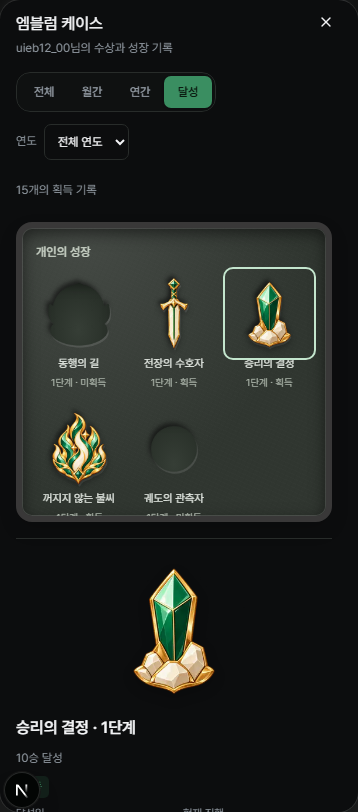
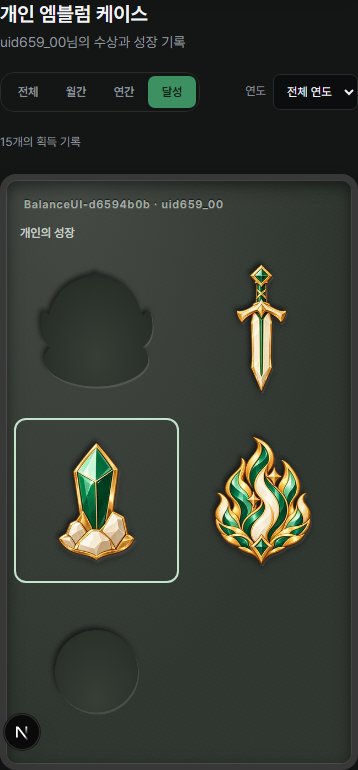
docs(emblems): record permanent awards and case page verification

diff --git a/docs/design/personal-emblems/production-v1/README.md b/docs/design/personal-emblems/production-v1/README.md
@@ -1,6 +1,6 @@
 # 개인 엠블럼 · 개별 투명 이미지 V1
 
-제작일: 2026-10-23 · 상태: 10계열·50장 제작 및 색상 미리보기 완료. 앱의 집계·지급·컬렉션에는 미연결.
+제작일: 2026-10-23 · 상태: 10계열·50장, 공통 케이스·대표 선택·영구 수상·최초 달성일 연결.
 
 ## 확정 범위
 
@@ -8,8 +8,8 @@
 
 | 구분 | 계열 | 개별 이미지 |
 |---|---|---|
-| 수상형 | 승리의 별·약속의 태양·전장의 기사·불사조·선견의 나침반 | 5계열 × 월간/연간 × 금/은/동 = 30장 |
-| 달성형 | 동행의 길·전장의 수호자·승리의 결정·꺼지지 않는 불씨·궤도의 관측자 | 5계열 × 4단계 = 20장 |
+| 수상형 | 승률·참여·출전·연승·예측 적중 | 5계열 × 월간/연간 × 금/은/동 = 30장 |
+| 달성형 | 누적 참여·출전·승리·최장 연승·예측 적중 | 5계열 × 4단계 = 20장 |
 
 전부 **1254×1254 RGBA PNG**다. 내장 image_gen에서 각각 따로 생성했고 픽셀 후처리 없이 [공용 이미지 폴더](../../../../public/personal-emblems/v1)에 복사했다. 금·은·동은 동일 계열 금 원본을 직접 참조해 금속만 바꾸었다. 연간은 짧은 리본에 별과 넓은 월계 장식을 더했다. 달성형은 돌길·방패·결정·불꽃·관측 고리가 단계별로 성장한다.
 
@@ -69,14 +69,18 @@ PNG에는 날짜·번호·이름을 새기지 않는다. 기본 녹색 원본 50
 
 `node scripts/verify-personal-emblems.mjs`로 50장 중복 없음, 정사각 RGBA, 모서리 알파 최대 1/255, 실제 그림 존재, 생성 원본과 복사본 SHA-256 50/50 일치, 월12색·연6색/과거 연도/잘못된 날짜와 금속을 제외하는 색상 선택을 확인했다. 미리보기 서버 허용 목록 자체 검사와 변경 JavaScript ESLint를 통과했다. 내장 브라우저에서 2월·2027년 색상 전환, 월간/연간 장식, 금은동, 성장 단계와 양 배경 표시를 확인했다.
 
-위 검증은 이미지 제작 단계다. 아래 공통 케이스를 추가로 연결했으며 과거 수상의 영구 기록·정정/회수 정책은 [앞선 정책 제안](../proposal-v1/README.md)에 남아 있다.
+위 검증은 이미지 제작 단계다. 아래 공통 케이스와 영구 기록을 추가로 연결했다. [앞선 정책 제안](../proposal-v1/README.md)은 제작 당시의 제안 이력이다.
 
 ## 앱의 공통 케이스 · 2026-10-23
 
-프로필에서는 활성 게임·클랜별로, 개인 기록에서는 선택 멤버의 케이스를 연다. 대표3개는 클랜별로 저장해 두 화면에 공유한다. 전체/월간/연간/달성·연도 필터와 날짜·에나멜 색상을 적용했다. 달성형은 최고 획득 한 단계만 진열하고 상세에서 관련4단계·조건·진척을 확인한다. 미획득은 빈 홈과 미리보기로 구분한다.
+프로필에서는 활성 게임·클랜별로, 개인 기록에서는 선택 멤버의 전용 케이스 페이지를 연다. 대표3개는 클랜별로 저장해 두 화면에 공유한다. 클랜 배지 케이스와 같은 상단 분류·명판·펠트 진열·데스크톱4열/모바일2열을 사용하며 핀을 선택하면 개별 상세 창이 열린다. 전체/월간/연간/달성·연도 필터와 날짜·에나멜 색상을 적용했다. 달성형은 최고 획득 한 단계만 진열하고 상세에서 관련4단계·조건·진척을 확인한다. 미획득은 빈 홈과 미리보기로 구분한다.
+
+고유 엠블럼 이름을 제거하고 `10승 달성`, `월간 승률 1위`처럼 설명만 표시한다. 수상 기간과 한국 시간 기준 최초 달성일을 함께 확인한다.
 
 ![개인 엠블럼 케이스 실제 QA 화면](case-desktop.png)
 
-[모바일 실제 화면](case-mobile.png) · [통계 공개·수상 규칙](../../../01-plan/pages/10-Clan-Stats.md) · [검증 범위](../../../TODO_Phase2.md#2026-10-23-개인-엠블럼-공통-케이스)
+[케이스 모바일](case-mobile.png) · [개별 상세 PC](case-detail-desktop.png) · [개별 상세 모바일](case-detail-mobile.png) · [통계 공개·수상 규칙](../../../01-plan/pages/10-Clan-Stats.md) · [검증 범위](../../../TODO_Phase2.md#2026-10-23-개인-엠블럼-공통-케이스)
 
-현재 유효 기록을 기준으로 달성 여부와 마감 수상을 계산한다. 달성일 기록은 없으므로 임의 날짜를 표시하지 않는다. 운영 DB·배포는 보류했으며 기존 QA 데이터는 보존했다.
+월/연이 끝나고 해당 기간의 진행 중 정규 내전이 종료되면 수상을 한 번 확정해 보관한다. 기존 기록도 같은 기준으로 최초 수상 보관을 채우며 이후 정정·삭제·자격 설정 변경으로 바꾸지 않는다. 최초 달성일은 유효한 경기·참여·예측 기록에서 기준을 처음 넘은 시각으로 복원하고 새 기록이 반영될 때 자동 저장한다. 예측은 정산·종료 시각, 해당 시각이 없는 과거 기록은 라운드 시작 시각을 사용한다. 달성 후 기록이 정정·삭제돼도 달성과 달성일은 유지한다.
+
+동일 계정의 탈퇴·재가입은 이력을 보존하며 계정·클랜 삭제는 연결된 이력을 정리한다. 공개 설정은 기록 보관과 별개로 응답을 제한한다. 운영 DB·배포는 보류했으며 기존 QA 명단·경기·코인은 보존했다.

diff --git a/docs/README.md b/docs/README.md
@@ -33,7 +33,7 @@
 | 클랜 운영·공지 | [관리 탐색](../src/components/main-clan/clan-manage-tabs.tsx) · [영역별 데이터](../src/components/main-clan/clan-manage-content.tsx) · [회차 집계](../src/lib/clan/load-clan-history.ts) · [배지](../src/components/main-clan/clan-badges.tsx) · [공지 액션](../src/app/actions/clan-notices.ts) | [관리](../e2e/clan-management.spec.ts) · [운영 현황·공지 3개](../e2e/clan-management-overview.spec.ts) · [대시보드](../e2e/clan-dashboard.spec.ts) · [공지 DB](../scripts/clan-notices-db.test.mjs) |
 | 클랜 통계·사이트 이용 | [통계 로더](../src/lib/clan/stats/load-clan-stats.ts) · [집계 규칙](../src/lib/clan/stats/clan-stats-analytics.ts) · [통계 화면](../src/components/main-clan/clan-stats-experience.tsx) · [공통 연월 팝업](../src/components/ui/period-select.tsx) · [기간 집계](../src/lib/clan/stats/intra-overview.ts) · [명예의 전당 반응](../src/app/actions/hof-comments.ts) · [관리 방문 화면](../src/components/main-clan/clan-site-usage-panel.tsx) | [기간·권한 UI](../e2e/clan-stats-periods.spec.ts) · [플레이어 태그·기본 정보·권한](../e2e/player-profile-display.spec.ts) · [집계](../e2e/clan-stats-analytics.spec.ts) · [기록/HoF](../e2e/clan-match-records.spec.ts) · [반응/댓글 권한](../e2e/hof-comments.spec.ts) · [권한 경계](../e2e/security-fix-boundaries.spec.ts) |
 | 통계 조회 성능 | [조회 모델 설계](02-design/clan-stats-read-model.md) · [요약·기록 RPC 로더](../src/lib/clan/stats/stats-read-model.ts) · [기간 지연 조회](../src/components/main-clan/use-stats-period.tsx) | [정합성·권한](../e2e/clan-stats-read-model.spec.ts) · [1만 경기 측정](../e2e/clan-stats-scale.spec.ts) |
-| 개인 엠블럼·대표 케이스 | [공통 케이스](../src/components/personal-emblems/personal-emblem-case.tsx) · [조회·대표 저장](../src/app/actions/personal-emblems.ts) · [계열·단계](../src/lib/personal-emblems/catalog.ts) · [프로필 연결](../src/components/profile/profile-emblem-collections.tsx) | [공개·저장·공유·모바일 UI](../e2e/personal-emblem-case.spec.ts) · [수상·단계·대표 규칙](../e2e/personal-emblems-catalog.spec.ts) · [RLS·소속 DB](../scripts/personal-emblems-db.test.mjs) |
+| 개인 엠블럼·대표 케이스 | [전용 페이지](../src/app/games/[gameSlug]/clan/[clanId]/emblems/page.tsx) · [공통 케이스](../src/components/personal-emblems/personal-emblem-case.tsx) · [GET 조회](../src/app/api/clans/[clanId]/personal-emblems/route.ts) · [대표 저장](../src/app/actions/personal-emblems.ts) · [계열·단계](../src/lib/personal-emblems/catalog.ts) · [프로필 연결](../src/components/profile/profile-emblem-collections.tsx) | [공개·저장·공유·모바일 UI](../e2e/personal-emblem-case.spec.ts) · [수상·단계·대표 규칙](../e2e/personal-emblems-catalog.spec.ts) · [RLS·소속 DB](../scripts/personal-emblems-db.test.mjs) · [영구 보관·최초 날짜 DB](../scripts/personal-emblem-history-db.test.mjs) · [정정·공개·재가입 보존](../e2e/personal-emblem-history.spec.ts) · [월/연 수상·터치](../e2e/personal-emblem-awards.spec.ts) |
 | 경기 기록 추가·정정·제거 | [기록 액션](../src/app/actions/clan-match-records.ts) · [편집 창](../src/components/main-clan/match-record-editor.tsx) · [날짜별 기록](../src/components/main-clan/clan-stats-archive.tsx) · [당일 전적](../src/components/main-clan/archive-day-table.tsx) | [CRUD·권한·원본 보존](../e2e/clan-match-record-editing.spec.ts) · [영역 유지·고정 높이](../e2e/clan-stats-periods.spec.ts) |
 | 일정·캘린더·시간대 | [캘린더 UI](../src/components/main-clan/clan-events-view.tsx) · [일정 액션](../src/app/actions/clan-events.ts) · [시간 파싱](../src/lib/clan/parse-event-start.ts) | [반응형 패널·드로워](../e2e/event-calendar-layout.spec.ts) · [event-timezone](../e2e/event-timezone.spec.ts) · [review-rules](../e2e/review-rules.spec.ts) |
 | 투표·생성 폼 | [목록·참여·결과](../src/components/main-clan/clan-events-polls-tab.tsx) · [도넛 결과](../src/components/main-clan/clan-poll-results.tsx) · [생성 UI](../src/components/main-clan/clan-poll-create-dialog.tsx) · [투표 액션](../src/app/actions/clan-polls.ts) | [생성·검증·모바일](../e2e/clan-poll-create.spec.ts) · [선택·변경·결과·직접 링크](../e2e/clan-poll-voting.spec.ts) · [시작 예약·익명 응답](../e2e/clan-poll-schedule.spec.ts) |

diff --git a/docs/TODO_Phase2.md b/docs/TODO_Phase2.md
@@ -14,7 +14,12 @@
 - 프로필의 활성 게임·클랜별 영역과 개인 기록 배너가 같은 이미지 케이스를 연다. 수상형30장·달성형20장과 월12색/연6색·날짜를 적용했다. 전체/월간/연간/달성·연도 필터, 계열별 최고 달성 한 슬롯, 조건·진척·금은동·수상 기간과 관련4단계 상세를 제공한다.
 - 본인의 획득 엠블럼 최대3개를 클랜별로 저장하고 두 화면에서 공유한다. 명시적 빈 선택을 유지하며 달성 단계가 오르면 대표도 최고 단계로 바뀐다. 새 테이블은 본인·현재 소속의 읽기만 허용하고 서버가 소속·공개 범위·획득 여부를 검증한 뒤 저장한다. 멤버에게 비공개인 전적/예측 계열은 달성형 응답에서도 제외한다. 조회 거부 시 이전 기록·초기 표시와 진행 중 저장 응답을 폐기한다.
 - QA 마이그레이션 `20261023063328_clan_personal_emblem_picks.sql`과 타입을 적용했다. 격리 DB 하위 검증5건(상위 포함6건), 집중 Playwright7건 및 권한 철회 후 재조회 추가 시나리오, 변경 ESLint·타입·QA 설정 프로덕션 빌드가 통과했다. 대표 저장/화면 공유·미획득 차단·최고 단계·공개 권한·탈퇴·320/390px·닫기/포커스 복귀를 확인했다. [실제 케이스 화면](design/personal-emblems/production-v1/case-desktop.png)을 보관했다.
-- 수상은 종전처럼 마감 기간의 현재 원본으로 재계산하며 영구 수상 스냅샷은 후속이다. 누적 달성도 현재 유효 기록을 기준으로 판정하고 미보유 달성일을 만들어 내지 않는다. 기존 QA 명단·내전·코인은 보존했으며 운영 DB·배포는 보류한다.
+- 후속 보관: 월/연 마감과 해당 기간 진행 중 정규 내전 종료 뒤 전체 부문 상위3을 한 번 확정한다. 빈 기간도 마커로 확정하고 정정·삭제·자격 설정 변경 후 수상을 보존한다. 조회 및 기존 분 단위 워커/cron이 미확정 기간을 보완한다. 통계 요약이나 자격 기준이 계산 중 바뀌면 확정을 보류하고 재시도하며 진행 중 기간은 대기열에서도 제외한다.
+- 최초 달성일은 정규화된 유효 경기·정규 회차 최초 출전·예측 적중의 기준 통과 시각으로 복원하고 통계 갱신과 함께 자동 저장한다. 예측은 정산→종료→과거 라운드 시작 시각 순이다. 달성 후 원본 정정·삭제나 동일 계정 탈퇴·재가입에도 획득과 날짜·대표를 유지한다. 계정·클랜 삭제 시 연결 이력은 정리한다. 보관 테이블의 직접 읽기/쓰기를 차단하고 기존 공개 정책을 통과한 서버 응답만 허용한다.
+- 표시: 고유 이름을 제거하고 목록·상세·접근성 설명·미리보기에 `10승 달성`, `월간 승률 1위` 같은 조건/수상 내용만 사용한다. 달성일은 한국 시간 날짜다. 자동 대표에서 연간과 12월 수상은 같은 마감 시점으로 정렬한다. 기존 QA 명단·내전·코인은 보존했으며 운영 DB·배포는 보류한다.
+- 케이스 페이지: 프로필·개인 기록의 대표3칸/보기 링크가 `/games/{gameSlug}/clan/{clanId}/emblems?player={userId}`로 연결된다. 클랜 배지와 같은 분류·명판·펠트 진열·데스크톱4열/모바일2열·핀별 상세 창을 사용하며 대표 지정과 관련4단계도 상세 안에 모은다.
+- 재조회는 캐시하지 않는 GET을 사용하고 이동 시 요청을 취소한다. 사용자·대상이 바뀐 응답을 폐기하며, 공개 권한 철회 시 초기 표시·상세·대표를 즉시 비운다.
+- 후속 검증: QA 이력 마이그레이션6개·생성 타입과 기존 데이터의 마감 수상 보관을 반영했다. 격리 이력 DB7건(상위 포함), 관련 Playwright11건(계열 규칙5·기간/요약/수상/보관/케이스/프로필6), 변경 ESLint·타입·최종 QA 설정 프로덕션 빌드가 통과했다. 기간 전체의 원자적 확정·동시 요청·빈 기간·진행 중 내전·오래된 통계/자격 설정의 확정 보류, 최초 날짜5계열·정정/삭제/재가입 보존, GET400/401/403·권한 철회 후 재시도·320/390px·포커스 복귀를 확인했다. 보안 advisor 신규 WARN/ERROR는 없다. [상세 PC](design/personal-emblems/production-v1/case-detail-desktop.png)·[상세 모바일](design/personal-emblems/production-v1/case-detail-mobile.png) 화면을 추가했다.
 
 ## 2026-10-23 프로필 하우징 1차
 

diff --git a/docs/01-plan/pages/14-Profile-Customization.md b/docs/01-plan/pages/14-Profile-Customization.md
@@ -5,10 +5,12 @@
 
 ## 2026-10-23 — 개인 엠블럼 케이스
 
-- 본인 프로필에서 활성 게임·클랜별로 개인 엠블럼 케이스를 연다. 클랜을 섞어 집계하지 않으며 클랜 개인 기록과 같은 케이스·조회 권한을 사용한다.
-- 수상형·달성형의 투명 이미지 50장을 전체/월간/연간/달성과 수상 연도로 필터링한다. 날짜와 월별 12색·연도별 6색 순환을 함께 표시하고, 달성형은 계열별 최고 획득 단계 1개를 진열하며 상세에서 4단계·조건·진척을 확인한다.
+- 본인 프로필에서 활성 게임·클랜별 대표3칸과 보기 링크로 개인 엠블럼 전용 케이스 페이지를 연다. 클랜 배지 페이지와 동일한 분류·명판·진열과 핀별 상세 창을 사용한다. 클랜을 섞어 집계하지 않으며 클랜 개인 기록과 같은 케이스·조회 권한을 사용한다.
+- 수상형·달성형의 투명 이미지 50장을 전체/월간/연간/달성과 수상 연도로 필터링한다. 날짜와 월별 12색·연도별 6색 순환을 함께 표시하고, 달성형은 계열별 최고 획득 단계 1개를 진열하며 상세에서 4단계·조건·진척을 확인한다. 고유 엠블럼 이름은 화면·접근성 이름에서 제거하고 `10승 달성`, `월간 승률 1위` 같은 설명과 수상 기간·달성일을 표시한다.
 - 본인만 대표 엠블럼을 최대 3개 저장하며 같은 클랜의 개인 기록 배너와 공유한다. 기존 네임카드의 `엠블럼` 프리셋 및 대표 뱃지 5개를 고르는 `뱃지 케이스`와는 별도 기능이다.
-- 일반 멤버는 기존 개인 기록 공개 설정을 따른다. 경기 전적 비공개 시 참여·출전·승리·연승 달성형, 예측 적중 비공개 시 예측 달성형을 케이스·대표에서 제외한다. 달성일 기록이 없으면 날짜를 만들지 않으며 수상은 영구 지급 스냅샷 없이 정정된 원본에서 재계산한다. 상세 기준은 [클랜 통계의 엠블럼 개편](10-Clan-Stats.md#4-개인-기록)을 따른다.
+- 수상은 월·연 기간 마감과 해당 기간에 개설된 진행 중 정규 내전의 종료를 모두 충족한 뒤, 해당 기간 전체 대상·부문의 1~3위를 처음 확정해 영구 보관한다. 이후 기록 정정·삭제나 등재 기준·공개 설정 변경으로 수상 결과를 덮어쓰지 않는다.
+- 최초 달성일은 정정이 반영된 정규화 기록에서 각 단계 조건을 처음 통과한 시각으로 복원하며 새 기록을 쓸 때 자동으로 달성 이력을 추가한다. 원본 정정·삭제 뒤에도 최초 달성일을 보존하고 한국 시간의 날짜로 표시한다. 같은 계정의 탈퇴·재가입은 수상·달성 이력을 유지하며 계정 삭제·클랜 삭제 시 해당 이력을 연쇄 삭제한다.
+- 일반 멤버는 기존 개인 기록 공개 설정을 따른다. 경기 전적 비공개 시 참여·출전·승리·연승 달성형, 예측 적중 비공개 시 예측 달성형을 케이스·대표에서 제외한다. 수상형도 부문 공개 권한에 따라 표시를 숨기며 보관된 기록은 유지한다. 상세 기준은 [클랜 통계의 엠블럼 개편](10-Clan-Stats.md#4-개인-기록)을 따른다.
 
 ## 2026-10-23 — 프로필 하우징 1차 (QA)
 

diff --git a/docs/TODO_LOG.md b/docs/TODO_LOG.md
@@ -1,5 +1,10 @@
 # 구현 진행도 — 작업 세션 로그
 
+### 2026-10-23 — 개인 엠블럼 영구 보관·전용 케이스 페이지
+
+- 마감 수상과 최초 달성일을 보관하고 이름 대신 `10승 달성` 같은 설명을 표시한다. 프로필·개인 기록에서 클랜 배지와 같은 전용 케이스·핀별 상세 창을 연다([규칙·화면](design/personal-emblems/production-v1/README.md)).
+- QA 이력 스키마·타입·기존 수상 보관과 격리 DB7건·관련 Playwright11건·린트/타입/빌드를 검증했다. 기존 QA 명단·경기·코인은 보존했으며 운영 DB·배포는 보류한다([상세](TODO_Phase2.md#2026-10-23-개인-엠블럼-공통-케이스)).
+
 ### 2026-10-23 — 가구 길게 누르기·방 마감
 
 - 가구를 450ms 누르면 꾸미기와 이동을 바로 시작하며 짧은 탭·스크롤·취소는 구분한다. 벽·바닥 끝 마감, 창문·커튼 결합과 외곽 그림자를 정리했다. 마우스/터치 길게 누르기·저장/재조회·스크롤 분리, 변경 린트·타입을 검증했다([상세](TODO_Phase2.md#2026-10-23-프로필-하우징-1차)).
